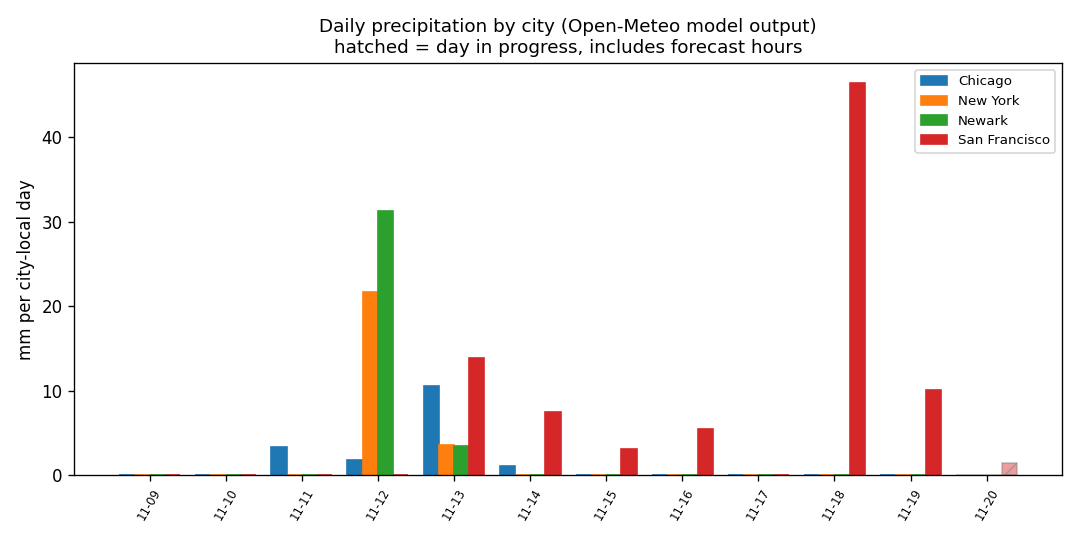
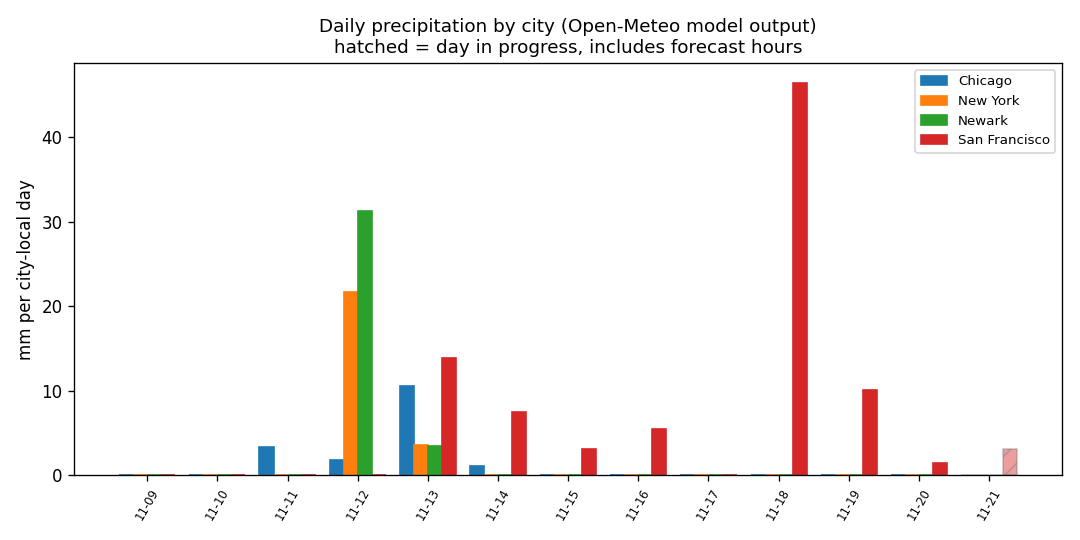
Add daily temperature range chart (in-progress days hollow); refresh data

diff --git a/src/weatherwh/dashboard.py b/src/weatherwh/dashboard.py
@@ -57,6 +57,7 @@ def render_markdown(con, generated_at: dt.datetime | None = None) -> str:
                   "| --- | ---: | ---: |"]
         for city, total, days in wet:
             lines.append(f"| {city} | {total} | {days} |")
+    lines += ["", "![Daily temperature range by city](temp_range_by_city.png)", ""]
     severe = extremes.severe_days(con)[:8]
     lines += ["", "## Severe-weather days", "",
               "![Daily peak wind by city](wind_by_city.png)", "",
@@ -175,3 +176,39 @@ def plot_wind(con, out_path, now_utc: dt.datetime | None = None) -> bool:
                             "Daily peak wind by city (Open-Meteo model output)", now_utc,
                             ref_line=STRONG_WIND_KMH,
                             ref_label=f"{STRONG_WIND_KMH:g} km/h (illustrative, not an alert)")
+
+
+def plot_temp_range(con, out_path, now_utc: dt.datetime | None = None) -> bool:
+    """Daily min-max temperature band and mean line per city (deg C, model
+    output). Days still in progress include forecast hours, so their mean
+    marker is hollow and the band is not to be read as an observed range."""
+    from .extremes import day_status
+
+    rows = con.execute(
+        "SELECT city, day, min_temp_c, avg_temp_c, max_temp_c FROM mart_daily_city "
+        "ORDER BY city, day").fetchall()
+    if not rows:
+        return False
+    cities = sorted({r[0] for r in rows})
+    fig, axes = plt.subplots(len(cities), 1, figsize=(9, 2.2 * len(cities)), sharex=True,
+                             squeeze=False)
+    for ax, city in zip(axes[:, 0], cities):
+        pts = [r for r in rows if r[0] == city]
+        x = list(range(len(pts)))
+        ax.fill_between(x, [p[2] for p in pts], [p[4] for p in pts], alpha=0.25)
+        ax.plot(x, [p[3] for p in pts], color="C0", linewidth=1)
+        for i, p in enumerate(pts):
+            partial = day_status(city, p[1], now_utc) != "complete"
+            ax.plot(i, p[3], "o", markersize=4, color="C0",
+                    markerfacecolor="white" if partial else "C0")
+        ax.set_ylabel(city, fontsize=8)
+        ax.grid(alpha=0.3)
+    days = [r[1] for r in rows if r[0] == cities[0]]
+    axes[-1, 0].set_xticks(range(len(days)))
+    axes[-1, 0].set_xticklabels([str(d)[5:] for d in days], rotation=60, fontsize=7)
+    axes[0, 0].set_title("Daily min-max and mean temperature, deg C (Open-Meteo model output)\n"
+                         "hollow marker = day in progress, includes forecast hours", fontsize=10)
+    fig.tight_layout()
+    fig.savefig(out_path, dpi=120)
+    plt.close(fig)
+    return True

diff --git a/tests/test_extremes.py b/tests/test_extremes.py
@@ -156,3 +156,14 @@ def test_plot_wind_renders_with_threshold_and_embeds_in_dashboard(tmp_path):
     assert (tmp_path / "w.png").stat().st_size > 1000
     assert "wind_by_city.png" in dashboard.render_markdown(con)
     con.close()
+
+
+def test_plot_temp_range_renders_and_embeds(tmp_path):
+    con = warehouse.connect(":memory:")
+    assert dashboard.plot_temp_range(_empty(), tmp_path / "e.png") is False
+    load(con, [("A", 1, 0.0, 20.0), ("A", 2, 0.0, 70.0), ("B", 2, 0.0, 10.0)])
+    now = dt.datetime(2026, 11, 2, 15, tzinfo=dt.timezone.utc)
+    assert dashboard.plot_temp_range(con, tmp_path / "t.png", now_utc=now) is True
+    assert (tmp_path / "t.png").stat().st_size > 1000
+    assert "temp_range_by_city.png" in dashboard.render_markdown(con)
+    con.close()

diff --git a/scripts/daily_update.py b/scripts/daily_update.py
@@ -56,6 +56,8 @@ def main() -> int:
         print("wrote chart")
     if dashboard.plot_precip(con, REPORTS / "precip_by_city.png"):
         print("wrote precip chart")
+    if dashboard.plot_temp_range(con, REPORTS / "temp_range_by_city.png"):
+        print("wrote temperature chart")
     if dashboard.plot_wind(con, REPORTS / "wind_by_city.png"):
         print("wrote wind chart")
     print("wrote reports/dashboard.md")

diff --git a/reports/dashboard.md b/reports/dashboard.md
@@ -1,13 +1,17 @@
 # Weather Warehouse - daily dashboard
 
-Generated 2026-11-20 20:04 UTC.
+Generated 2026-11-21 12:04 UTC.
 
 | city | day | avg_temp_c | min_temp_c | max_temp_c | total_precip_mm | max_wind_kmh | hours_observed |
 | --- | --- | --- | --- | --- | --- | --- | --- |
-| Chicago | 2026-11-20 | 11.4 | 5.5 | 18.9 | 0.0 | 16.6 | 24 |
-| New York | 2026-11-20 | 12.74 | 7.3 | 20.8 | 0.0 | 11.4 | 24 |
-| Newark | 2026-11-20 | 12.35 | 5.6 | 21.1 | 0.0 | 11.6 | 24 |
-| San Francisco | 2026-11-20 | 9.91 | 7.8 | 12.7 | 1.4 | 13.7 | 24 |
+| Chicago | 2026-11-21 | 12.46 | 7.3 | 20.0 | 0.0 | 16.9 | 24 |
+| New York | 2026-11-21 | 11.3 | 6.7 | 17.3 | 0.0 | 11.3 | 24 |
+| Newark | 2026-11-21 | 11.12 | 6.3 | 17.3 | 0.0 | 11.5 | 24 |
+| San Francisco | 2026-11-21 | 9.63 | 6.9 | 12.8 | 3.1 | 12.7 | 24 |
+| Chicago | 2026-11-20 | 11.73 | 5.5 | 19.0 | 0.0 | 17.1 | 24 |
+| New York | 2026-11-20 | 13.37 | 7.3 | 21.3 | 0.0 | 9.5 | 24 |
+| Newark | 2026-11-20 | 12.92 | 5.6 | 21.7 | 0.0 | 11.2 | 24 |
+| San Francisco | 2026-11-20 | 10.15 | 8.0 | 13.2 | 1.4 | 10.9 | 24 |
 | Chicago | 2026-11-19 | 11.13 | 6.0 | 18.6 | 0.0 | 20.8 | 24 |
 | New York | 2026-11-19 | 10.98 | 5.9 | 18.6 | 0.0 | 8.6 | 24 |
 | Newark | 2026-11-19 | 10.61 | 3.7 | 19.9 | 0.0 | 9.1 | 24 |
@@ -30,10 +34,6 @@ Generated 2026-11-20 20:04 UTC.
 | San Francisco | 2026-11-15 | 12.95 | 11.3 | 15.1 | 3.1 | 14.4 | 24 |
 | Chicago | 2026-11-14 | 2.32 | -0.7 | 6.9 | 1.1 | 16.1 | 24 |
 | New York | 2026-11-14 | 4.66 | 3.0 | 6.8 | 0.0 | 20.5 | 24 |
-| Newark | 2026-11-14 | 4.75 | 3.0 | 6.9 | 0.0 | 21.2 | 24 |
-| San Francisco | 2026-11-14 | 13.44 | 11.3 | 16.9 | 7.5 | 10.2 | 24 |
-| Chicago | 2026-11-13 | 2.53 | 0.7 | 4.7 | 10.5 | 26.7 | 24 |
-| New York | 2026-11-13 | 5.03 | 3.2 | 8.7 | 3.6 | 22.5 | 24 |
 
 ## Heat / cold exposure (current window)
 
@@ -52,7 +52,8 @@ Completed days only: daily average temperature vs the city's other days (|z| >= 
 
 | city | day | avg temp C | z-score |
 | --- | --- | ---: | ---: |
-| Chicago | 2026-11-19 | 11.13 | 2.3 |
+| Chicago | 2026-11-20 | 11.73 | 2.02 |
+| New York | 2026-11-14 | 4.66 | -2.0 |
 
 ## Precipitation
 
@@ -62,10 +63,13 @@ Model output in mm over the window; the current day includes forecast hours.
 
 | city | total mm | wet days (>=1 mm) |
 | --- | ---: | ---: |
-| San Francisco | 87.8 | 7 |
+| San Francisco | 90.9 | 8 |
 | Newark | 34.7 | 2 |
 | New York | 25.3 | 2 |
 | Chicago | 16.7 | 4 |
+
+![Daily temperature range by city](temp_range_by_city.png)
+
 
 ## Severe-weather days
 
